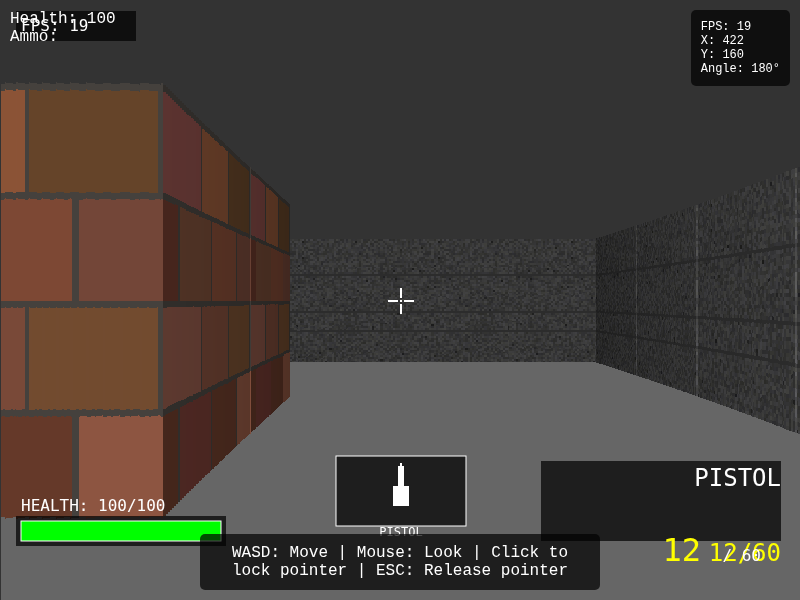
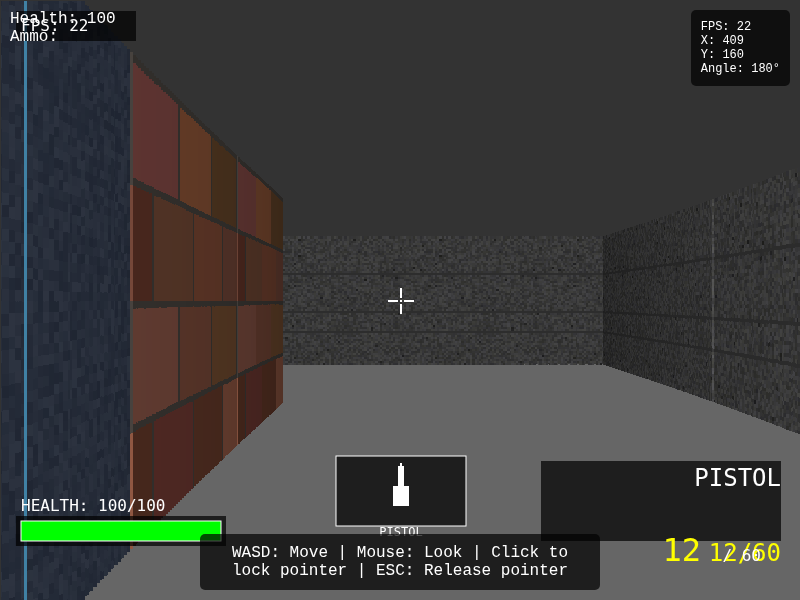
🚪 #22 Interactive Environment & Doors
Door system with E key interaction, key-based access control,
auto-close timers, and door opening sound effects.

diff --git a/js/world/map.js b/js/world/map.js
@@ -37,7 +37,10 @@ class GameMap {
         this.items = []; // Collectible items
         this.enemies = []; // Enemy spawn points
         this.doors = []; // Interactive doors
-        
+
+        // Door system
+        this.initializeDoors();
+
         // Initialize additional map elements
         this.initializeMapElements();
         
@@ -69,7 +72,81 @@ class GameMap {
         // Add one more imp for swarm behavior testing
         this.enemies.push(new Enemy(5 * this.tileSize, 7 * this.tileSize, 'imp'));
     }
-    
+
+    initializeDoors() {
+        // Add doors to the map at strategic locations
+        // Doors use wall type 9 when closed, become 0 when open
+        this.addDoor(5, 3, 'none');    // Door into red room area
+        this.addDoor(10, 3, 'none');   // Door into blue room area
+        this.addDoor(6, 9, 'red');     // Red key door into inner room
+    }
+
+    addDoor(mapX, mapY, keyRequired) {
+        // Set the grid tile to door wall type (9)
+        this.grid[mapY][mapX] = 9;
+
+        this.doors.push({
+            mapX, mapY,
+            isOpen: false,
+            keyRequired, // 'none', 'red', 'blue', 'yellow'
+            openTime: 0,
+            autoCloseDelay: 5000 // Close after 5 seconds
+        });
+    }
+
+    tryOpenDoor(playerX, playerY, playerAngle, playerKeys) {
+        // Find door the player is facing within interaction range
+        const interactRange = 80;
+        const checkX = playerX + Math.cos(playerAngle) * interactRange;
+        const checkY = playerY + Math.sin(playerAngle) * interactRange;
+        const mapPos = this.worldToMap(checkX, checkY);
+
+        for (const door of this.doors) {
+            if (door.mapX === mapPos.x && door.mapY === mapPos.y) {
+                if (door.isOpen) {
+                    // Already open
+                    return { success: false, reason: 'already_open' };
+                }
+
+                // Check key requirement
+                if (door.keyRequired !== 'none') {
+                    if (!playerKeys || !playerKeys.includes(door.keyRequired)) {
+                        return { success: false, reason: 'need_key', key: door.keyRequired };
+                    }
+                }
+
+                // Open the door
+                door.isOpen = true;
+                door.openTime = Date.now();
+                this.grid[door.mapY][door.mapX] = 0; // Remove wall
+
+                // Play door sound
+                if (window.soundEngine && window.soundEngine.isInitialized) {
+                    window.soundEngine.playDoorSound();
+                }
+
+                return { success: true };
+            }
+        }
+
+        return { success: false, reason: 'no_door' };
+    }
+
+    updateDoors() {
+        const now = Date.now();
+        for (const door of this.doors) {
+            // Auto-close doors after delay
+            if (door.isOpen && now - door.openTime > door.autoCloseDelay) {
+                door.isOpen = false;
+                this.grid[door.mapY][door.mapX] = 9;
+            }
+        }
+    }
+
+    getDoorAt(mapX, mapY) {
+        return this.doors.find(d => d.mapX === mapX && d.mapY === mapY);
+    }
+
     // Check if a coordinate contains a wall
     isWall(mapX, mapY) {
         if (mapX < 0 || mapX >= this.width || mapY < 0 || mapY >= this.height) {

diff --git a/js/engine/renderer.js b/js/engine/renderer.js
@@ -43,7 +43,8 @@ class Renderer {
             5: '#FF00FF', // Magenta wall
             6: '#00FFFF', // Cyan wall
             7: '#FFFFFF', // White wall
-            8: '#888888'  // Gray wall
+            8: '#888888', // Gray wall
+            9: '#8B4513'  // Door (brown/wood)
         };
         
         // Performance optimization
@@ -386,12 +387,13 @@ class Renderer {
         this.wallTypeTextures = {
             1: 'stone',    // Default walls
             2: 'brick',    // Red-ish areas
-            3: 'metal',    // Blue areas  
+            3: 'metal',    // Blue areas
             4: 'tech',     // Green areas
             5: 'marble',   // Light areas
             6: 'stone',    // Purple areas (fallback to stone)
             7: 'metal',    // Other areas
-            8: 'brick'     // Fallback
+            8: 'brick',    // Fallback
+            9: 'tech'      // Doors
         };
     }
     

diff --git a/js/entities/player.js b/js/entities/player.js
@@ -31,6 +31,9 @@ class Player {
         // Damage tracking
         this.lastDamageTime = 0;
 
+        // Keys collected
+        this.keys = [];
+
         // Weapon system
         this.weaponManager = new WeaponManager();
         
@@ -324,8 +327,15 @@ class Player {
     }
     
     useItem() {
-        console.log('Use item pressed');
-        // Implement item usage, door opening, etc.
+        // Try to open a door
+        if (window.game && window.game.map) {
+            const result = window.game.map.tryOpenDoor(this.x, this.y, this.angle, this.keys || []);
+            if (result.success) {
+                console.log('Door opened!');
+            } else if (result.reason === 'need_key') {
+                console.log(`Need ${result.key} key to open this door!`);
+            }
+        }
     }
     
     shoot(map) {

diff --git a/js/engine/game.js b/js/engine/game.js
@@ -154,6 +154,9 @@ class GameEngine {
         // Update pickups
         this.pickupManager.update(deltaTime, this.player);
 
+        // Update doors
+        this.map.updateDoors();
+
         // Update adaptive music
         if (window.soundEngine && window.soundEngine.isInitialized) {
             window.soundEngine.updateMusicState(this.player, this.map.enemies);

diff --git a/devlog/devlog-20260218-182419.md b/devlog/devlog-20260218-182419.md
@@ -74,3 +74,18 @@ Added adaptive music system that responds to gameplay state.
 - Music state updated each frame from game loop
 
 **Files modified:** sound-engine.js, game.js
+
+## Issue #22: Interactive Environment & Doors
+
+Added interactive door system with key-based access control.
+
+**Changes:**
+- Door system with open/close state and wall type 9 (brown/wood color)
+- E key interaction to open doors when facing them
+- Key-based access: doors can require red/blue/yellow keys
+- Auto-close doors after 5 seconds
+- Door opening sound effect
+- 3 doors placed in the level at strategic locations
+- Door rendering with tech texture
+
+**Files modified:** map.js, player.js, renderer.js, game.js
